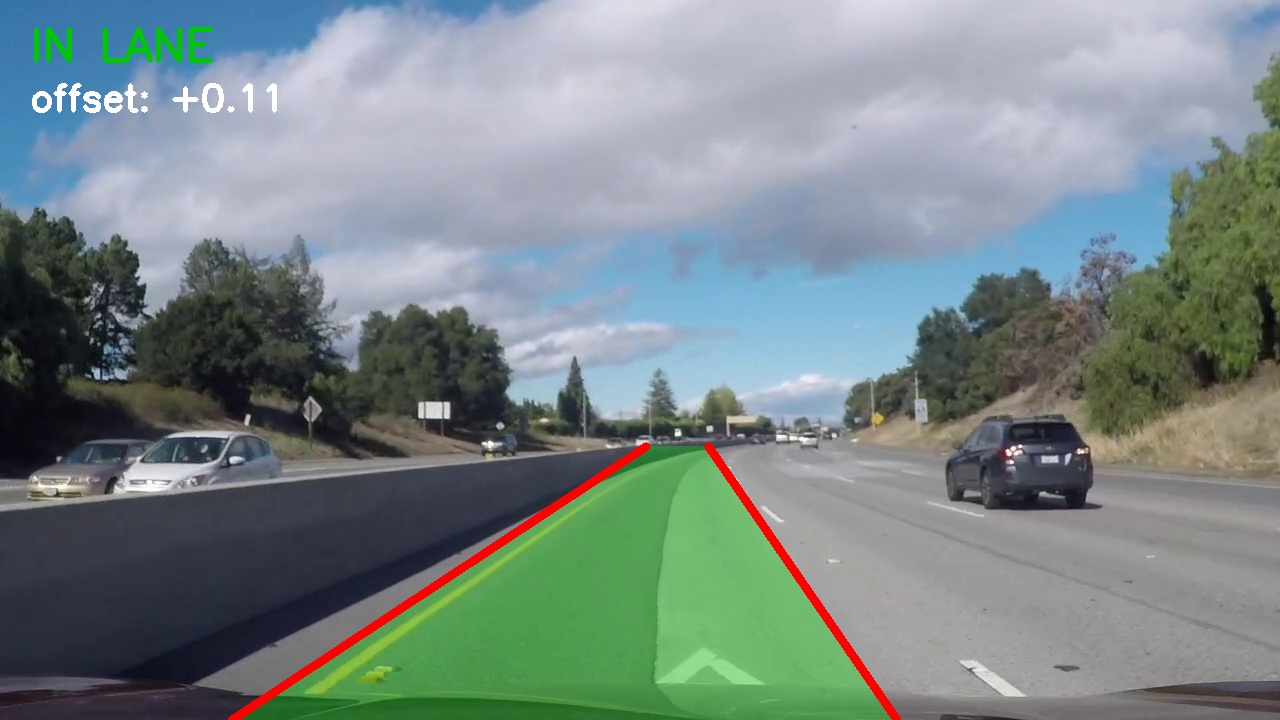
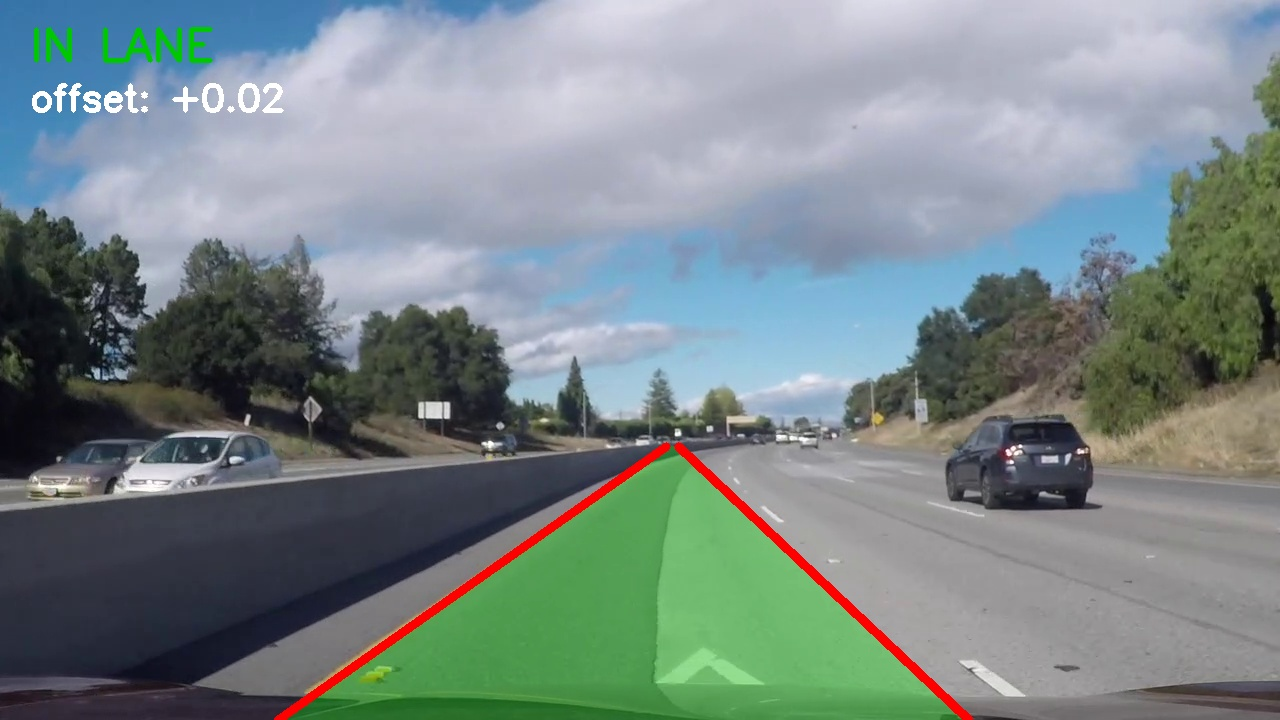
Lane detection: default to Canny (80,200) + HLS colour mask
Regenerate demo/challenge GIFs and sample frames with the new defaults,
add --no-color to restore the baseline, and update README/report with
full-video detection rates.

Changed region(s): [[0.1562, 0.6111, 0.5938, 1.0], [0.5938, 0.7333, 0.7812, 1.0], [0.1875, 0.1222, 0.2188, 0.1528]]

diff --git a/01-lane-detection/src/evaluate.py b/01-lane-detection/src/evaluate.py
@@ -6,7 +6,7 @@ the bottom of the image. A point is "correct" if |pred - gt| < px pixels.
 If a side is not detected, its 10 points all count as wrong.
 
 Example:
-    python src/evaluate.py --canny_lo 80 --canny_hi 200 --px 10 --color
+    python src/evaluate.py --canny_lo 50 --canny_hi 150 --px 10 --no-color
 Each run appends a block to results/metrics.txt.
 """
 import argparse
@@ -32,10 +32,11 @@ def gt_x(points, ys):
 
 def main():
     p = argparse.ArgumentParser()
-    p.add_argument("--canny_lo", type=int, default=50)
-    p.add_argument("--canny_hi", type=int, default=150)
+    p.add_argument("--canny_lo", type=int, default=lane.CANNY_LO)
+    p.add_argument("--canny_hi", type=int, default=lane.CANNY_HI)
     p.add_argument("--px", type=float, default=20, help="pixel tolerance for a correct point")
-    p.add_argument("--color", action="store_true", help="HLS white/yellow mask before Canny")
+    p.add_argument("--color", action=argparse.BooleanOptionalAction, default=lane.USE_COLOR,
+                   help="HLS white/yellow mask before Canny (--no-color to disable)")
     p.add_argument("--out", default=str(ROOT / "results/metrics.txt"))
     args = p.parse_args()
 

diff --git a/01-lane-detection/src/lane.py b/01-lane-detection/src/lane.py
@@ -15,10 +15,10 @@ import numpy as np
 
 # ---- Tunable parameters ---------------------------------------------------
 Y_TOP = 0.62            # top of the trapezoid ROI, as a fraction of image height
-CANNY_LO, CANNY_HI = 50, 150
+CANNY_LO, CANNY_HI = 80, 200   # best of the evaluated settings (see README)
 MIN_SLOPE = 0.4         # ignore near-horizontal segments (|dy/dx| below this)
 WARN_THRESHOLD = 0.15   # |offset| above this (fraction of lane width) -> warning
-USE_COLOR = False       # if True, keep only white/yellow pixels (HLS) before Canny
+USE_COLOR = True        # if True, keep only white/yellow pixels (HLS) before Canny
 
 
 def color_mask(frame):

diff --git a/01-lane-detection/src/run_video.py b/01-lane-detection/src/run_video.py
@@ -55,7 +55,8 @@ def main():
     p.add_argument("--edges", default=str(RESULTS / "step_edges.jpg"),
                    help="where to save the Canny+ROI image of the first frame")
     p.add_argument("--sample_every", type=int, default=200)
-    p.add_argument("--color", action="store_true", help="HLS white/yellow mask before Canny")
+    p.add_argument("--color", action=argparse.BooleanOptionalAction, default=lane.USE_COLOR,
+                   help="HLS white/yellow mask before Canny (--no-color to disable)")
     args = p.parse_args()
     lane.USE_COLOR = args.color
 

diff --git a/01-lane-detection/README.md b/01-lane-detection/README.md
@@ -22,8 +22,8 @@ For evaluation, 40 evenly spaced frames of `project_video.mp4` were hand-labeled
 
 The pipeline in `src/lane.py` runs once per frame:
 
-1. **(Optional) HLS colour mask:** keep only white pixels (lightness ≥ 200) and yellow pixels (hue 15–35, saturation ≥ 80).
-2. **Grayscale → 5×5 Gaussian blur → Canny edges** with thresholds (lo, hi).
+1. **HLS colour mask** (on by default, `--no-color` to disable): keep only white pixels (lightness ≥ 200) and yellow pixels (hue 15–35, saturation ≥ 80).
+2. **Grayscale → 5×5 Gaussian blur → Canny edges** with thresholds (80, 200) by default.
 3. **Region of interest:** a trapezoid covering the road ahead, from the bottom of the image up to 62% of its height.
 4. **Probabilistic Hough transform** to find line segments.
 5. **Left/right split by slope:** drop near-horizontal segments (|slope| < 0.4). Negative slope in the left half is the left lane; positive slope in the right half is the right lane.
@@ -50,13 +50,14 @@ cd 01-lane-detection
 git clone https://github.com/udacity/CarND-Advanced-Lane-Lines.git data/CarND-Advanced-Lane-Lines
 
 # 2. run on a video -> annotated mp4 + sample frames in results/
-python src/run_video.py --src data/CarND-Advanced-Lane-Lines/project_video.mp4 --out results/demo.mp4 --color
+python src/run_video.py --src data/CarND-Advanced-Lane-Lines/project_video.mp4 --out results/demo.mp4
 
 # 3. (optional) label your own ground truth
 python src/label_frames.py
 
-# 4. evaluate (appends to results/metrics.txt)
-python src/evaluate.py --canny_lo 80 --canny_hi 200 --px 20 --color
+# 4. evaluate (appends to results/metrics.txt); defaults are Canny (80, 200) + colour mask
+python src/evaluate.py --px 20
+python src/evaluate.py --canny_lo 50 --canny_hi 150 --no-color   # baseline
 ```
 
 ## Results
@@ -70,7 +71,16 @@ Evaluated on 40 hand-labeled frames (800 points: 40 frames × 2 sides × 10 rows
 | (80, 200) | off | 95.0% | 87.6% (701/800) | 72.0% (576/800) | 8.9 px |
 | (80, 200) | on  | **100.0%** | **94.1% (753/800)** | **78.9% (631/800)** | **7.5 px** |
 
-The best setting is **Canny (80, 200) with the HLS colour mask**. The colour mask has the biggest effect: it adds about 6 points of accuracy at 20 px and about 7–9 points at 10 px, and it brings detection of both lanes to 100%. The stricter Canny thresholds help only slightly once the mask is on.
+The best setting is **Canny (80, 200) with the HLS colour mask**. The colour mask has the biggest effect: it adds about 6 points of accuracy at 20 px and about 7–9 points at 10 px, and it brings detection of both lanes to 100%. The stricter Canny thresholds help only slightly once the mask is on. This setting is now the default in `src/lane.py`, and `demo.gif` and `challenge.gif` were generated with it.
+
+**Full videos (no labels, detection only).** Percentage of frames in which both lanes were found by `detect()` alone, without smoothing:
+
+| Video | Canny (50, 150), no mask | Canny (80, 200) + mask |
+|---|---|---|
+| `project_video.mp4` | 99.4% (1252/1260) | 100.0% (1260/1260) |
+| `challenge_video.mp4` | 95.9% (464/484) | 96.1% (465/484) |
+
+The colour mask fixes the main video, but it barely changes the result on the challenge video.
 
 Sample output frame (`project_video.mp4`, frame 1000):
 
@@ -81,11 +91,11 @@ Edge map after Canny + ROI (first frame): [results/step_edges.jpg](results/step_
 ## Limitations
 
 - **Straight-line model only.** Curved lanes are approximated by one straight line. The ground truth is also a straight line through two clicks, so the metric does not penalise curvature errors.
-- **Light-coloured road surfaces and seams.** On pale concrete, the left line can drift inside the yellow line (`results/demo_frame0600.jpg`). On `challenge_video.mp4`, tar seams and the barrier edge pull the fitted lines away from the real lane markings (`results/challenge_frame0200.jpg`).
+- **Harder roads.** On `challenge_video.mp4`, one lane side is still missed in 19 of 484 frames (3.9%) with the best setting. The colour mask helps little there, because the faded markings, tar seams and concrete barrier are not cleanly separated by fixed white/yellow thresholds. The overlay is held by temporal smoothing in those frames, and there are no labels for this video, so its accuracy is not measured.
 - **Hand-tuned constants.** The ROI, Hough parameters, slope cutoff and colour thresholds are fixed for this camera and do not adapt to lighting or mounting.
 - **Small evaluation set.** 40 frames from a single video, labeled by one person.
 - **No camera calibration or perspective transform.** The offset is a fraction of lane width, not metres.
 
 ## Conclusion
 
-A simple Canny + Hough pipeline with an HLS white/yellow mask finds both lane lines in all 40 test frames. 94.1% of points are within 20 px of the hand labels, and the mean error is 7.5 px. That is enough to drive a working lane-departure warning on the main highway video. The approach breaks down on lane curvature and on roads with strong seams and changing surfaces, as in the challenge video. A perspective transform with polynomial fitting, or a learned detector, would be the next step.
+A simple Canny + Hough pipeline with an HLS white/yellow mask finds both lane lines in all 40 test frames and in every frame of the main video. 94.1% of points are within 20 px of the hand labels, and the mean error is 7.5 px. That is enough to drive a working lane-departure warning on the main highway video. The approach is weaker on curved lanes and on roads with seams and changing surfaces: on the challenge video it still misses a side in 3.9% of frames. A perspective transform with polynomial fitting, or a learned detector, would be the next step.

diff --git a/01-lane-detection/report.md b/01-lane-detection/report.md
@@ -19,7 +19,7 @@ Each frame goes through these steps:
 5. Segments are split into left and right by the sign of their slope. Near-horizontal segments (|slope| < 0.4) are dropped.
 6. One line per side is fitted by least squares as x = a·y + b.
 
-The departure offset is (image centre − lane centre) / lane width at the bottom row, and |offset| > 0.15 triggers a warning. In video, line coefficients are smoothed with an exponential moving average (α = 0.3).
+The final pipeline uses the HLS mask and Canny (80, 200) by default, chosen from the experiments below. The departure offset is (image centre − lane centre) / lane width at the bottom row, and |offset| > 0.15 triggers a warning. In video, line coefficients are smoothed with an exponential moving average (α = 0.3).
 
 For evaluation, predicted and labeled x positions are compared on 10 rows. A point is correct if it lies within a pixel tolerance (20 or 10 px). A missed side counts all 10 of its points as wrong.
 
@@ -36,11 +36,13 @@ Two Canny threshold pairs, with the colour mask on and off, at two tolerances:
 
 The colour mask is the main improvement. It adds 5.2–6.5 points of accuracy at 20 px and 6.9–8.8 points at 10 px, and it removes every missed lane. Stricter Canny thresholds (80, 200) help a little at 10 px. Without the mask, though, they miss more lanes (95.0% both detected versus 97.5%), because faint markings no longer produce edges. Tightening the tolerance from 20 px to 10 px cuts accuracy by 15–19 points, so most of the remaining error is in the 10–20 px range.
 
+On the full videos, measured without labels as the share of frames with both sides detected, the best setting reaches 100.0% on `project_video.mp4` (baseline 99.4%). On `challenge_video.mp4` it reaches 96.1% (baseline 95.9%).
+
 ## 5. Discussion
 
 - **Curves.** The model is a straight line, so on bends the fitted line follows the near part of the lane and drifts off it further ahead. The ground truth is also a straight line, so this error is not captured by the numbers above.
-- **Shadows and surface changes.** Shadow edges and the borders of pale concrete patches are strong grayscale gradients, which Canny and Hough can mistake for lane segments. The colour mask removes most of these because they are neither white nor yellow, which is consistent with the 100% detection rate when the mask is on. Even with good overall numbers, the left line sometimes sits inside the yellow marking on pale concrete (frame 600 of the demo).
-- **Challenge video.** Tar seams that run parallel to the lane, and the base of the concrete barrier, are long, straight and high-contrast. Inside the ROI they look exactly like lane lines to Hough. In `challenge_video.mp4`, the right line often locks onto a seam instead of the dashed marking. The EMA smoothing makes the overlay stable but does not fix where it points.
+- **Shadows and surface changes.** Shadow edges and the borders of pale concrete patches are strong grayscale gradients, which Canny and Hough can mistake for lane segments. The colour mask removes most of these because they are neither white nor yellow, which is consistent with the 100% detection rate when the mask is on. With the baseline settings, the left line sat inside the yellow marking on pale concrete (demo frame 600). With the mask on, it follows the marking.
+- **Challenge video.** Tar seams that run parallel to the lane, and the base of the concrete barrier, are long, straight and high-contrast. Inside the ROI they look like lane lines to Hough. With the baseline settings, the right line locked onto a seam (challenge frame 200). The colour mask removes much of this, but a side is still missed in 19 of 484 frames (3.9%), almost the same as without the mask (20 frames). Fixed colour thresholds are not enough for faded markings. The EMA smoothing holds the previous line through misses, but it cannot correct a line that is wrong.
 
 ## 6. Conclusion & Future Work
 
